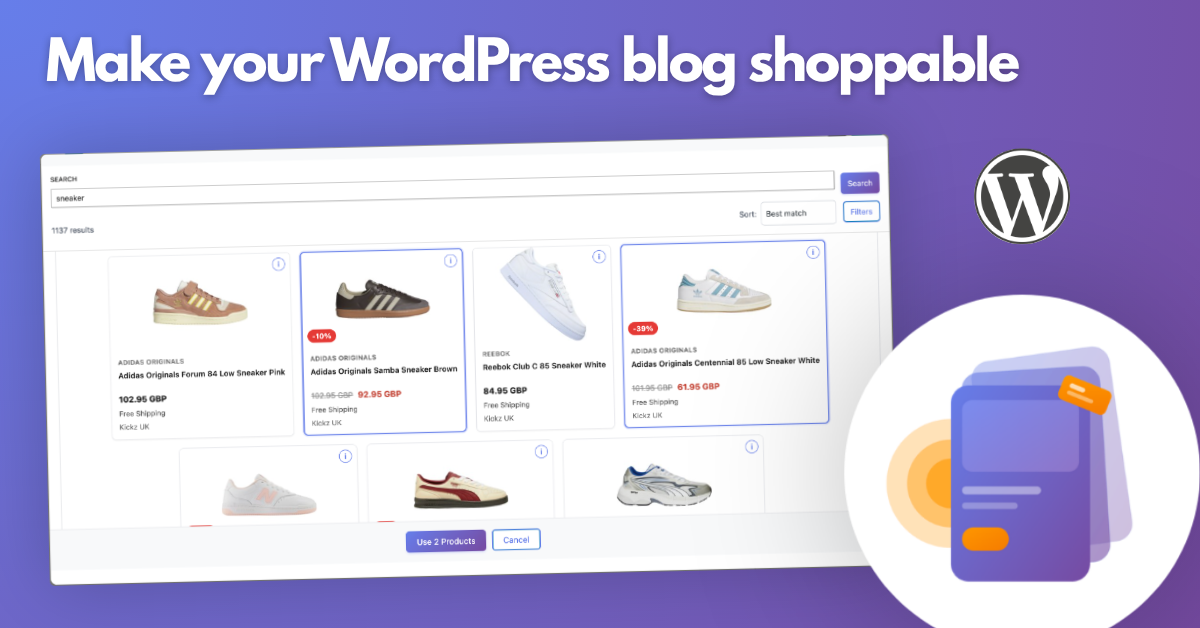
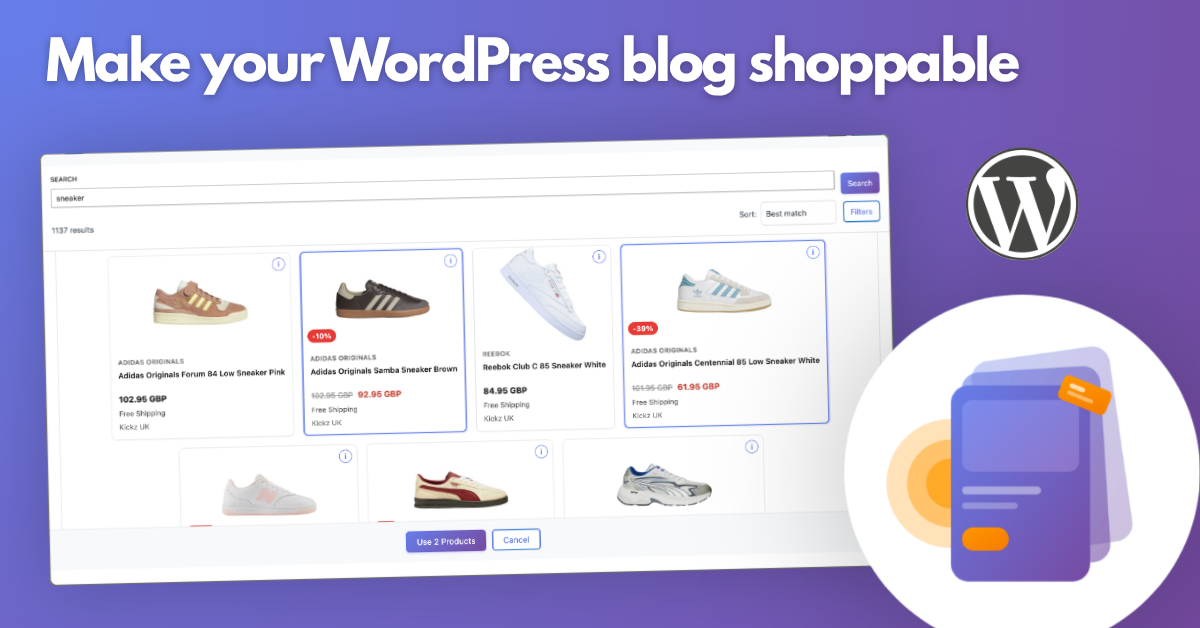
Bigger WordPress mark on the share image, and a plain hyphen in titles
The em dash in "MyFeeds — Make your blog shoppable" reads as machine
writing, and it is the first thing anyone sees when the link is shared.
It is a hyphen now, in every <title>, og:title and twitter:title across
the site - fifty of them, twenty-one files - so no page shares itself in
one style and the rest in another.

Only titles changed. Em dashes inside body copy stay where they are.

Changed region(s): [[0.8017, 0.242, 0.925, 0.4236], [0.8325, 0.2118, 0.8633, 0.242]]

diff --git a/index.html b/index.html
@@ -3,20 +3,20 @@
 <head>
 <meta charset="UTF-8">
 <meta name="viewport" content="width=device-width, initial-scale=1.0">
-<title>MyFeeds — Make your blog shoppable</title>
+<title>MyFeeds - Make your blog shoppable</title>
 <meta name="description" content="Upload your affiliate product feed. MyFeeds builds product cards in your own design in minutes. Want a whole shop instead? Build one with your very first import. WordPress plugin, free to start.">
 <link rel="canonical" href="https://myfeeds.site/">
 <meta property="og:type" content="website">
 <meta property="og:site_name" content="MyFeeds">
 <meta property="og:url" content="https://myfeeds.site/">
-<meta property="og:title" content="MyFeeds — Make your blog shoppable">
+<meta property="og:title" content="MyFeeds - Make your blog shoppable">
 <meta property="og:description" content="Upload your affiliate product feed. MyFeeds builds product cards in your own design in minutes. Want a whole shop instead? Build one with your very first import. WordPress plugin, free to start.">
 <meta property="og:image" content="https://myfeeds.site/assets/og-image.png">
 <meta property="og:image:width" content="1200">
 <meta property="og:image:height" content="628">
 <meta name="twitter:card" content="summary_large_image">
 <meta name="twitter:url" content="https://myfeeds.site/">
-<meta name="twitter:title" content="MyFeeds — Make your blog shoppable">
+<meta name="twitter:title" content="MyFeeds - Make your blog shoppable">
 <meta name="twitter:description" content="Upload your affiliate product feed. MyFeeds builds product cards in your own design in minutes. Want a whole shop instead? Build one with your very first import. WordPress plugin, free to start.">
 <meta name="twitter:image" content="https://myfeeds.site/assets/og-image.png">
 <script type="application/ld+json">{"@context":"https://schema.org","@graph":[{"@type":"Organization","@id":"https://myfeeds.site/#organization","name":"MyFeeds","url":"https://myfeeds.site/","logo":{"@type":"ImageObject","url":"https://myfeeds.site/logo.png"}},{"@type":"WebSite","@id":"https://myfeeds.site/#website","url":"https://myfeeds.site/","name":"MyFeeds","publisher":{"@id":"https://myfeeds.site/#organization"}},{"@type":"SoftwareApplication","name":"MyFeeds","url":"https://myfeeds.site/","image":"https://myfeeds.site/logo.png","operatingSystem":"WordPress","applicationCategory":"BusinessApplication","description":"Upload your affiliate product feed. MyFeeds builds product cards in your own design in minutes. Want a whole shop instead? Build one with your very first import.","publisher":{"@id":"https://myfeeds.site/#organization"},"offers":[{"@type":"Offer","name":"Free","price":"0","priceCurrency":"USD","url":"https://myfeeds.site/install/"},{"@type":"Offer","name":"Starter Monthly","price":"9","priceCurrency":"USD","url":"https://myfeeds.site/#pricing"},{"@type":"Offer","name":"Starter Annual","price":"89","priceCurrency":"USD","url":"https://myfeeds.site/#pricing"},{"@type":"Offer","name":"Pro Monthly","price":"19","priceCurrency":"USD","url":"https://myfeeds.site/#pricing"},{"@type":"Offer","name":"Pro Annual","price":"199","priceCurrency":"USD","url":"https://myfeeds.site/#pricing"},{"@type":"Offer","name":"E-commerce Monthly","price":"49","priceCurrency":"USD","url":"https://myfeeds.site/#pricing"},{"@type":"Offer","name":"E-commerce Annual","price":"499","priceCurrency":"USD","url":"https://myfeeds.site/#pricing"}]}]}</script>

diff --git a/install/index.html b/install/index.html
@@ -3,20 +3,20 @@
 <head>
 <meta charset="UTF-8">
 <meta name="viewport" content="width=device-width, initial-scale=1.0">
-<title>Install MyFeeds — Free + Pro setup guide</title>
+<title>Install MyFeeds - Free + Pro setup guide</title>
 <meta name="description" content="Two install paths in one place. Free runs from WordPress.org in two clicks. Paid plans activate from the Freemius purchase email — five steps, no command line, never touches code.">
 <link rel="canonical" href="https://myfeeds.site/install/">
 <meta property="og:type" content="article">
 <meta property="og:site_name" content="MyFeeds">
 <meta property="og:url" content="https://myfeeds.site/install/">
-<meta property="og:title" content="Install MyFeeds — Free + Pro setup guide">
+<meta property="og:title" content="Install MyFeeds - Free + Pro setup guide">
 <meta property="og:description" content="Two install paths in one place. Free runs from WordPress.org in two clicks. Paid plans activate from the Freemius purchase email in five steps.">
 <meta property="og:image" content="https://myfeeds.site/assets/og-image.png">
 <meta property="og:image:width" content="1200">
 <meta property="og:image:height" content="628">
 <meta name="twitter:card" content="summary_large_image">
 <meta name="twitter:url" content="https://myfeeds.site/install/">
-<meta name="twitter:title" content="Install MyFeeds — Free + Pro setup guide">
+<meta name="twitter:title" content="Install MyFeeds - Free + Pro setup guide">
 <meta name="twitter:description" content="Two install paths in one place. Free runs from WordPress.org in two clicks. Paid plans activate from the Freemius purchase email in five steps.">
 <meta name="twitter:image" content="https://myfeeds.site/assets/og-image.png">
 <link rel="icon" type="image/png" href="/favicon.png">

diff --git a/articles/index.html b/articles/index.html
@@ -3,19 +3,19 @@
 <head>
 <meta charset="UTF-8">
 <meta name="viewport" content="width=device-width, initial-scale=1.0">
-<title>MyFeeds Updates — Building an affiliate plugin in public</title>
+<title>MyFeeds Updates - Building an affiliate plugin in public</title>
 <meta name="description" content="Updates from building MyFeeds — the affiliate product feed manager for WordPress. Launches, milestones, and lessons I'm learning as I grow it.">
 <link rel="canonical" href="https://myfeeds.site/articles/">
 <meta property="og:type" content="website">
 <meta property="og:site_name" content="MyFeeds">
-<meta property="og:title" content="MyFeeds Updates — Building an affiliate plugin in public">
+<meta property="og:title" content="MyFeeds Updates - Building an affiliate plugin in public">
 <meta property="og:description" content="Updates from building MyFeeds — the affiliate product feed manager for WordPress. Launches, milestones, and lessons I'm learning as I grow it.">
 <meta property="og:image" content="https://myfeeds.site/assets/og-image.png">
 <meta property="og:image:width" content="1200">
 <meta property="og:image:height" content="628">
 <meta property="og:url" content="https://myfeeds.site/articles/">
 <meta name="twitter:card" content="summary_large_image">
-<meta name="twitter:title" content="MyFeeds Updates — Building an affiliate plugin in public">
+<meta name="twitter:title" content="MyFeeds Updates - Building an affiliate plugin in public">
 <meta name="twitter:description" content="Updates from building MyFeeds — the affiliate product feed manager for WordPress. Launches, milestones, and lessons I'm learning as I grow it.">
 <meta name="twitter:image" content="https://myfeeds.site/assets/og-image.png">
 <link rel="icon" type="image/png" href="/favicon.png">

diff --git a/articles/just-launched-on-wordpress-org.html b/articles/just-launched-on-wordpress-org.html
@@ -3,12 +3,12 @@
 <head>
 <meta charset="UTF-8">
 <meta name="viewport" content="width=device-width, initial-scale=1.0">
-<title>Just launched MyFeeds on WordPress.org — why I built it</title>
+<title>Just launched MyFeeds on WordPress.org - why I built it</title>
 <meta name="description" content="After 2 years of building, MyFeeds is live on WordPress. The story behind why I built it, what it does, and where I'm at right now.">
 <link rel="canonical" href="https://myfeeds.site/articles/just-launched-on-wordpress-org.html">
 <meta property="og:type" content="article">
 <meta property="og:site_name" content="MyFeeds">
-<meta property="og:title" content="Just launched MyFeeds on WordPress.org — why I built it">
+<meta property="og:title" content="Just launched MyFeeds on WordPress.org - why I built it">
 <meta property="og:description" content="After 2 years of building, MyFeeds is live on WordPress. A plugin that keeps affiliate product cards current automatically, built because my own posts kept rotting.">
 <meta property="og:image" content="https://myfeeds.site/assets/og-image.png">
 <meta property="og:image:width" content="1200">
@@ -17,7 +17,7 @@
 <meta property="article:published_time" content="2026-05-25">
 <meta property="article:author" content="Marlon">
 <meta name="twitter:card" content="summary_large_image">
-<meta name="twitter:title" content="Just launched MyFeeds on WordPress.org — why I built it">
+<meta name="twitter:title" content="Just launched MyFeeds on WordPress.org - why I built it">
 <meta name="twitter:description" content="After 2 years of building, MyFeeds is live on WordPress. The story behind why I built it.">
 <meta name="twitter:image" content="https://myfeeds.site/assets/og-image.png">
 <link rel="icon" type="image/png" href="/favicon.png">

diff --git a/ecommerce/index.html b/ecommerce/index.html
@@ -3,19 +3,19 @@
 <head>
 <meta charset="UTF-8">
 <meta name="viewport" content="width=device-width, initial-scale=1.0">
-<title>MyFeeds E-commerce — Start your own affiliate shop</title>
+<title>MyFeeds E-commerce - Start your own affiliate shop</title>
 <meta name="description" content="Turn the product feeds your affiliate networks give you into a real shop on your own site: categories, filters, search, and pages Google reads as a shop instead of a blog post.">
 <link rel="canonical" href="https://myfeeds.site/ecommerce/">
 <meta property="og:type" content="website">
 <meta property="og:site_name" content="MyFeeds">
 <meta property="og:url" content="https://myfeeds.site/ecommerce/">
-<meta property="og:title" content="MyFeeds E-commerce — Start your own affiliate shop">
+<meta property="og:title" content="MyFeeds E-commerce - Start your own affiliate shop">
 <meta property="og:description" content="Turn the product feeds your affiliate networks give you into a real shop on your own site: categories, filters, search, and pages Google reads as a shop instead of a blog post.">
 <meta property="og:image" content="https://myfeeds.site/assets/og-image.png">
 <meta property="og:image:width" content="1200">
 <meta property="og:image:height" content="630">
 <meta name="twitter:card" content="summary_large_image">
-<meta name="twitter:title" content="MyFeeds E-commerce — Start your own affiliate shop">
+<meta name="twitter:title" content="MyFeeds E-commerce - Start your own affiliate shop">
 <meta name="twitter:description" content="Turn the product feeds your affiliate networks give you into a real shop on your own site.">
 <link rel="icon" type="image/png" href="/favicon.png">
 <link rel="icon" type="image/x-icon" href="/favicon.ico">

diff --git a/refund/index.html b/refund/index.html
@@ -3,20 +3,20 @@
 <head>
 <meta charset="UTF-8">
 <meta name="viewport" content="width=device-width, initial-scale=1.0">
-<title>Refund Policy — MyFeeds</title>
+<title>Refund Policy - MyFeeds</title>
 <meta name="description" content="Refund policy for MyFeeds paid subscriptions: free trial (7 days on Starter and Pro, 14 days on E-commerce), 14-day EU right of withdrawal, and our voluntary refund policy.">
 <link rel="canonical" href="https://myfeeds.site/refund/">
 <meta property="og:type" content="website">
 <meta property="og:site_name" content="MyFeeds">
 <meta property="og:url" content="https://myfeeds.site/refund/">
-<meta property="og:title" content="Refund Policy — MyFeeds">
+<meta property="og:title" content="Refund Policy - MyFeeds">
 <meta property="og:description" content="Refund policy for MyFeeds paid subscriptions: free trial (7 days on Starter and Pro, 14 days on E-commerce), 14-day EU right of withdrawal, and our voluntary refund policy.">
 <meta property="og:image" content="https://myfeeds.site/assets/og-image.png">
 <meta property="og:image:width" content="1200">
 <meta property="og:image:height" content="628">
 <meta name="twitter:card" content="summary_large_image">
 <meta name="twitter:url" content="https://myfeeds.site/refund/">
-<meta name="twitter:title" content="Refund Policy — MyFeeds">
+<meta name="twitter:title" content="Refund Policy - MyFeeds">
 <meta name="twitter:description" content="Refund policy for MyFeeds paid subscriptions: free trial (7 days on Starter and Pro, 14 days on E-commerce), 14-day EU right of withdrawal, and our voluntary refund policy.">
 <meta name="twitter:image" content="https://myfeeds.site/assets/og-image.png">
 <link rel="icon" type="image/png" href="/favicon.png">

diff --git a/privacy/index.html b/privacy/index.html
@@ -3,20 +3,20 @@
 <head>
 <meta charset="UTF-8">
 <meta name="viewport" content="width=device-width, initial-scale=1.0">
-<title>Privacy Policy — MyFeeds</title>
+<title>Privacy Policy - MyFeeds</title>
 <meta name="description" content="How MyFeeds handles your data on myfeeds.site and inside the MyFeeds WordPress plugin — what we store, what we don't, and your rights under GDPR.">
 <link rel="canonical" href="https://myfeeds.site/privacy/">
 <meta property="og:type" content="website">
 <meta property="og:site_name" content="MyFeeds">
 <meta property="og:url" content="https://myfeeds.site/privacy/">
-<meta property="og:title" content="Privacy Policy — MyFeeds">
+<meta property="og:title" content="Privacy Policy - MyFeeds">
 <meta property="og:description" content="How MyFeeds handles your data on myfeeds.site and inside the MyFeeds WordPress plugin — what we store, what we don't, and your rights under GDPR.">
 <meta property="og:image" content="https://myfeeds.site/assets/og-image.png">
 <meta property="og:image:width" content="1200">
 <meta property="og:image:height" content="628">
 <meta name="twitter:card" content="summary_large_image">
 <meta name="twitter:url" content="https://myfeeds.site/privacy/">
-<meta name="twitter:title" content="Privacy Policy — MyFeeds">
+<meta name="twitter:title" content="Privacy Policy - MyFeeds">
 <meta name="twitter:description" content="How MyFeeds handles your data on myfeeds.site and inside the MyFeeds WordPress plugin — what we store, what we don't, and your rights under GDPR.">
 <meta name="twitter:image" content="https://myfeeds.site/assets/og-image.png">
 <link rel="icon" type="image/png" href="/favicon.png">

diff --git a/terms/index.html b/terms/index.html
@@ -3,20 +3,20 @@
 <head>
 <meta charset="UTF-8">
 <meta name="viewport" content="width=device-width, initial-scale=1.0">
-<title>Terms of Service — MyFeeds</title>
+<title>Terms of Service - MyFeeds</title>
 <meta name="description" content="Terms of Service for using MyFeeds — the affiliate product feed manager for WordPress. Free, Starter, Pro, and E-commerce subscription terms.">
 <link rel="canonical" href="https://myfeeds.site/terms/">
 <meta property="og:type" content="website">
 <meta property="og:site_name" content="MyFeeds">
 <meta property="og:url" content="https://myfeeds.site/terms/">
-<meta property="og:title" content="Terms of Service — MyFeeds">
+<meta property="og:title" content="Terms of Service - MyFeeds">
 <meta property="og:description" content="Terms of Service for using MyFeeds — the affiliate product feed manager for WordPress. Free, Starter, Pro, and E-commerce subscription terms.">
 <meta property="og:image" content="https://myfeeds.site/assets/og-image.png">
 <meta property="og:image:width" content="1200">
 <meta property="og:image:height" content="628">
 <meta name="twitter:card" content="summary_large_image">
 <meta name="twitter:url" content="https://myfeeds.site/terms/">
-<meta name="twitter:title" content="Terms of Service — MyFeeds">
+<meta name="twitter:title" content="Terms of Service - MyFeeds">
 <meta name="twitter:description" content="Terms of Service for using MyFeeds — the affiliate product feed manager for WordPress. Free, Starter, Pro, and E-commerce subscription terms.">
 <meta name="twitter:image" content="https://myfeeds.site/assets/og-image.png">
 <link rel="icon" type="image/png" href="/favicon.png">

diff --git a/imprint/index.html b/imprint/index.html
@@ -3,20 +3,20 @@
 <head>
 <meta charset="UTF-8">
 <meta name="viewport" content="width=device-width, initial-scale=1.0">
-<title>Imprint — MyFeeds</title>
+<title>Imprint - MyFeeds</title>
 <meta name="description" content="Imprint and legal disclosure for MyFeeds — affiliate product feed manager for WordPress.">
 <link rel="canonical" href="https://myfeeds.site/imprint/">
 <meta property="og:type" content="website">
 <meta property="og:site_name" content="MyFeeds">
 <meta property="og:url" content="https://myfeeds.site/imprint/">
-<meta property="og:title" content="Imprint — MyFeeds">
+<meta property="og:title" content="Imprint - MyFeeds">
 <meta property="og:description" content="Imprint and legal disclosure for MyFeeds — affiliate product feed manager for WordPress.">
 <meta property="og:image" content="https://myfeeds.site/assets/og-image.png">
 <meta property="og:image:width" content="1200">
 <meta property="og:image:height" content="628">
 <meta name="twitter:card" content="summary_large_image">
 <meta name="twitter:url" content="https://myfeeds.site/imprint/">
-<meta name="twitter:title" content="Imprint — MyFeeds">
+<meta name="twitter:title" content="Imprint - MyFeeds">
 <meta name="twitter:description" content="Imprint and legal disclosure for MyFeeds — affiliate product feed manager for WordPress.">
 <meta name="twitter:image" content="https://myfeeds.site/assets/og-image.png">
 <link rel="icon" type="image/png" href="/favicon.png">

diff --git a/networks/rakuten/index.html b/networks/rakuten/index.html
@@ -3,13 +3,13 @@
 <head>
 <meta charset="UTF-8">
 <meta name="viewport" content="width=device-width, initial-scale=1.0">
-<title>Rakuten Advertising product feed for WordPress — import, display, auto-update | MyFeeds</title>
+<title>Rakuten Advertising product feed for WordPress - import, display, auto-update | MyFeeds</title>
 <meta name="description" content="Turn your Rakuten Advertising product feed into live, searchable product cards inside the WordPress block editor. Prices and stock update themselves nightly.">
 <link rel="canonical" href="https://myfeeds.site/networks/rakuten/">
 <meta property="og:type" content="website">
 <meta property="og:site_name" content="MyFeeds">
 <meta property="og:url" content="https://myfeeds.site/networks/rakuten/">
-<meta property="og:title" content="Rakuten Advertising product feed for WordPress — import, display, auto-update | MyFeeds">
+<meta property="og:title" content="Rakuten Advertising product feed for WordPress - import, display, auto-update | MyFeeds">
 <meta property="og:description" content="Turn your Rakuten Advertising product feed into live, searchable product cards inside the WordPress block editor. Prices and stock update themselves nightly.">
 <meta property="og:image" content="https://myfeeds.site/assets/og-image.png">
 <link rel="icon" type="image/png" href="/favicon.png">

diff --git a/networks/tradedoubler/index.html b/networks/tradedoubler/index.html
@@ -3,13 +3,13 @@
 <head>
 <meta charset="UTF-8">
 <meta name="viewport" content="width=device-width, initial-scale=1.0">
-<title>TradeDoubler product feed for WordPress — import, display, auto-update | MyFeeds</title>
+<title>TradeDoubler product feed for WordPress - import, display, auto-update | MyFeeds</title>
 <meta name="description" content="Turn your TradeDoubler product feed into live, searchable product cards inside the WordPress block editor. Prices and stock update themselves nightly.">
 <link rel="canonical" href="https://myfeeds.site/networks/tradedoubler/">
 <meta property="og:type" content="website">
 <meta property="og:site_name" content="MyFeeds">
 <meta property="og:url" content="https://myfeeds.site/networks/tradedoubler/">
-<meta property="og:title" content="TradeDoubler product feed for WordPress — import, display, auto-update | MyFeeds">
+<meta property="og:title" content="TradeDoubler product feed for WordPress - import, display, auto-update | MyFeeds">
 <meta property="og:description" content="Turn your TradeDoubler product feed into live, searchable product cards inside the WordPress block editor. Prices and stock update themselves nightly.">
 <meta property="og:image" content="https://myfeeds.site/assets/og-image.png">
 <link rel="icon" type="image/png" href="/favicon.png">

diff --git a/networks/sovrn/index.html b/networks/sovrn/index.html
@@ -3,13 +3,13 @@
 <head>
 <meta charset="UTF-8">
 <meta name="viewport" content="width=device-width, initial-scale=1.0">
-<title>Sovrn Commerce product feed for WordPress — import, display, auto-update | MyFeeds</title>
+<title>Sovrn Commerce product feed for WordPress - import, display, auto-update | MyFeeds</title>
 <meta name="description" content="Turn your Sovrn Commerce product feed into live, searchable product cards inside the WordPress block editor. Prices and stock update themselves nightly.">
 <link rel="canonical" href="https://myfeeds.site/networks/sovrn/">
 <meta property="og:type" content="website">
 <meta property="og:site_name" content="MyFeeds">
 <meta property="og:url" content="https://myfeeds.site/networks/sovrn/">
-<meta property="og:title" content="Sovrn Commerce product feed for WordPress — import, display, auto-update | MyFeeds">
+<meta property="og:title" content="Sovrn Commerce product feed for WordPress - import, display, auto-update | MyFeeds">
 <meta property="og:description" content="Turn your Sovrn Commerce product feed into live, searchable product cards inside the WordPress block editor. Prices and stock update themselves nightly.">
 <meta property="og:image" content="https://myfeeds.site/assets/og-image.png">
 <link rel="icon" type="image/png" href="/favicon.png">
